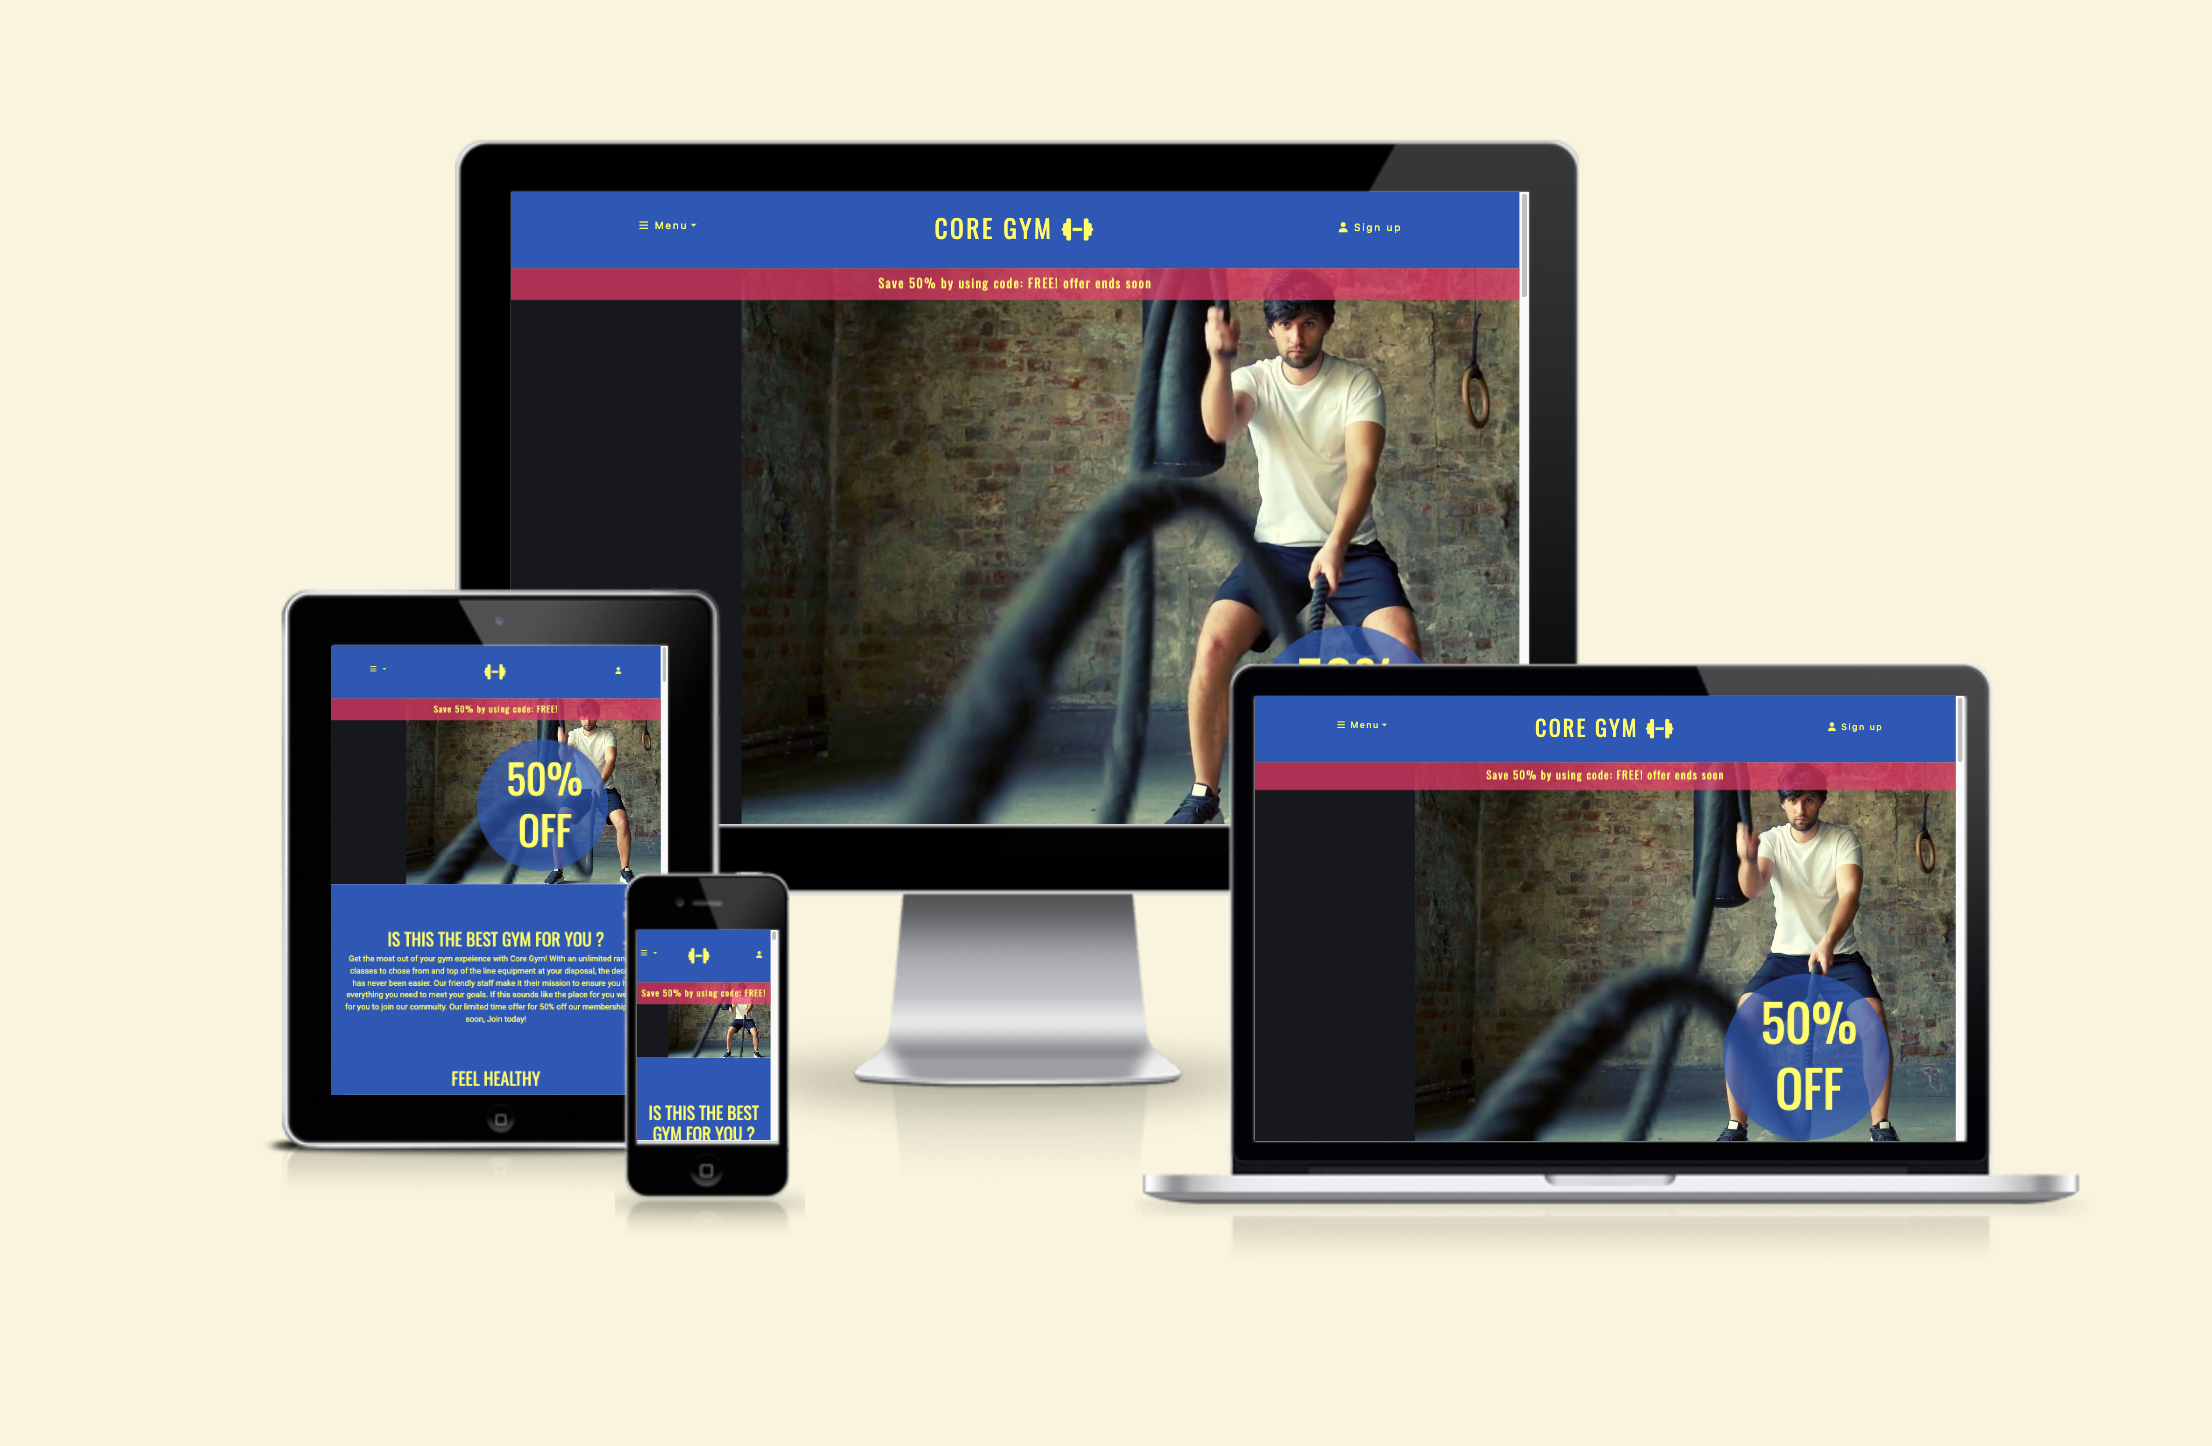
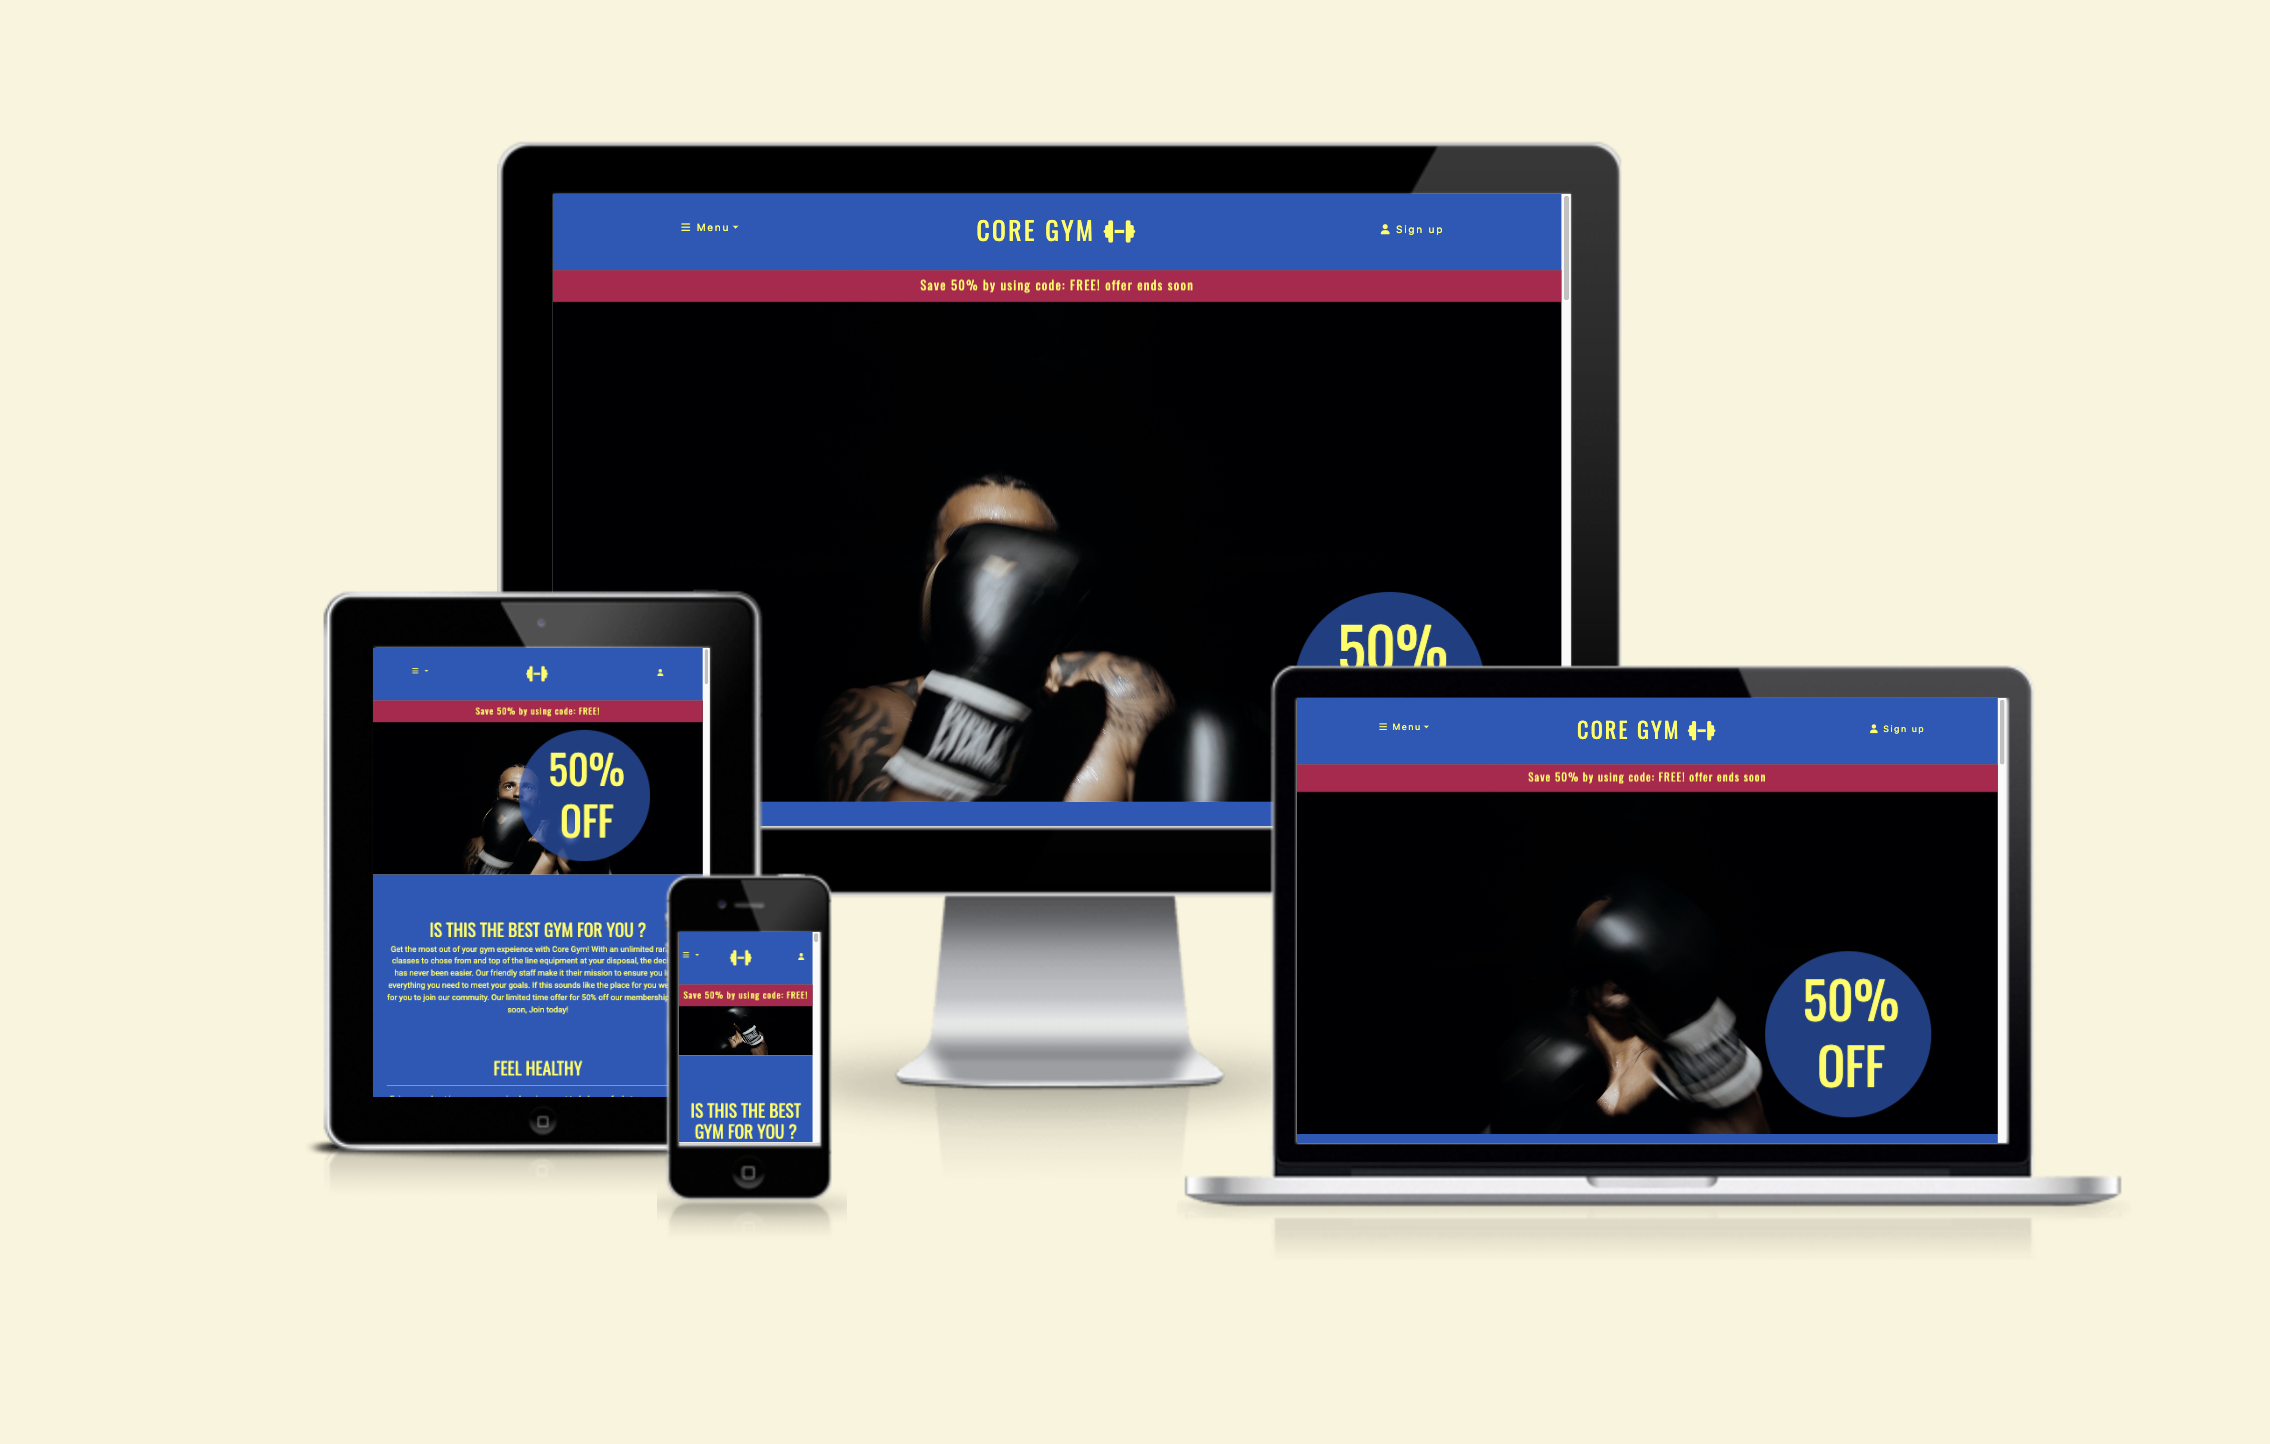
updated all photos with new header video

Changed region(s): [[0.1248, 0.0935, 0.9358, 0.8414]]

diff --git a/README.md b/README.md
@@ -50,7 +50,7 @@ The aim of my website is to attract an audience of people who value being fit an
     
     -  Header video:
 
-    1. [Exercise video](assets/media/200657-913478674_medium.mp4)
+    1. [Exercise video](assets/media/boxing-video.mp4)
 
      -  About us section images:
 
@@ -160,7 +160,7 @@ This website was tested on:
 
 ### Known bugs 
 
-- Nav bar doesn't close insatntly after it's been used on mobile devices. 
+- Nav bar doesn't close instantly after it's been used on mobile devices. 
 - Phone number appears as blue before being tapped on mobile devices. 
 
 ### Fixed bugs 
@@ -180,10 +180,13 @@ This website was tested on:
 
     1. As a first-time visitor I want to easily navigate through the website in order identify what services are being offered.
        1. Upon entering the website, users are greeted by a navigation bar in the header that they're then able to hover over to reveal locations for them to chose from. 
-       2. The about section is close to the top of the page, allowing for a near-immediate insight into what the gym is hoping to provide.
+       2. The Core gym logo is a clickabke link that remains in the header of every page so the user can easily find their way to the home page.
+       3. The about section is close to the top of the page, allowing for a near-immediate insight into what the gym is hoping to provide.
 
        - navigation
        ![UX testing](docs/screenshots/navigation.png)
+       - logo
+       ![UX testing](docs/screenshots/Logo.png)
        - about
        ![UX testing](docs/screenshots/about-section.png)
 
@@ -295,14 +298,6 @@ Alternatively, if using Gitpod, you can click below to create your own workspace
 
 ## Credits
 
-## Media & Content
-
-- The images that used throughout my site were all sourced from [Pexils](https://www.pexels.com/)
-- 
-- The menu PDFs are sourced from the original live [Greenbank website](https://www.thegreenbankbristol.co.uk/), although this is a fictional site I have all the required permission from the Pub itself.
-- The content in the "welcome/Food/Booking" sections has been biased on the original site- adapted and built upon by myself. 
-
-
 ## Code
 
 - Initial gallery layout taken from [here](https://mdbootstrap.com/docs/standard/extended/gallery/)
@@ -310,7 +305,7 @@ Alternatively, if using Gitpod, you can click below to create your own workspace
 - General coding niggles helped by [W3School](https://www.w3schools.com/)
 - Google map code taken from [here](https://mdbootstrap.com/docs/b4/jquery/javascript/google-maps/) 
 - Bootstrap dropdown code taken for [here](https://getbootstrap.com/docs/4.5/components/dropdowns/)
-- Code institute "love running"- Loosely based my "hero-image" section on their "hero-image" section. 
+- Code institute "love running"- Loosely based my "hero-video" section on their "hero-image" section. 
 - Transformed my images in webp decoments throught the site [pixelied](https://pixelied.com/convert/jpg-converter/jpg-to-webp)
 
 
